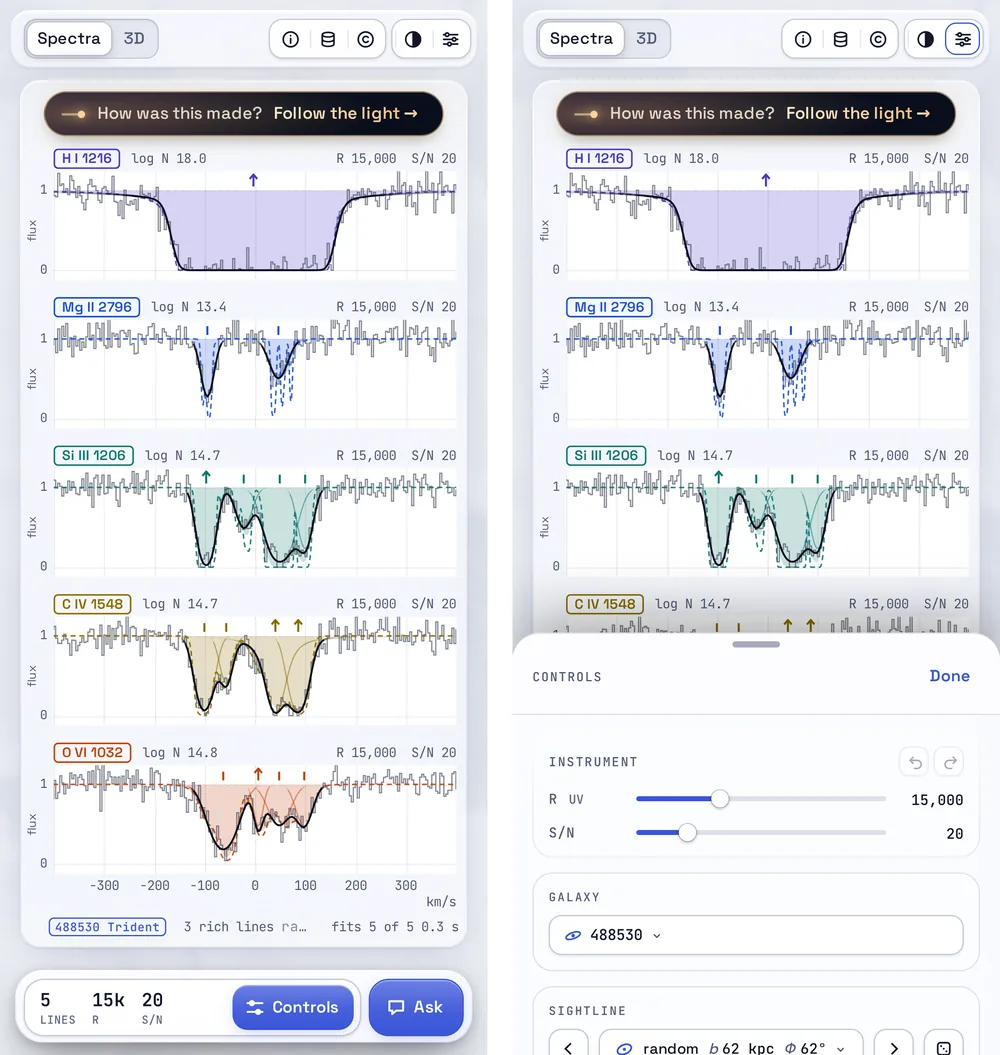
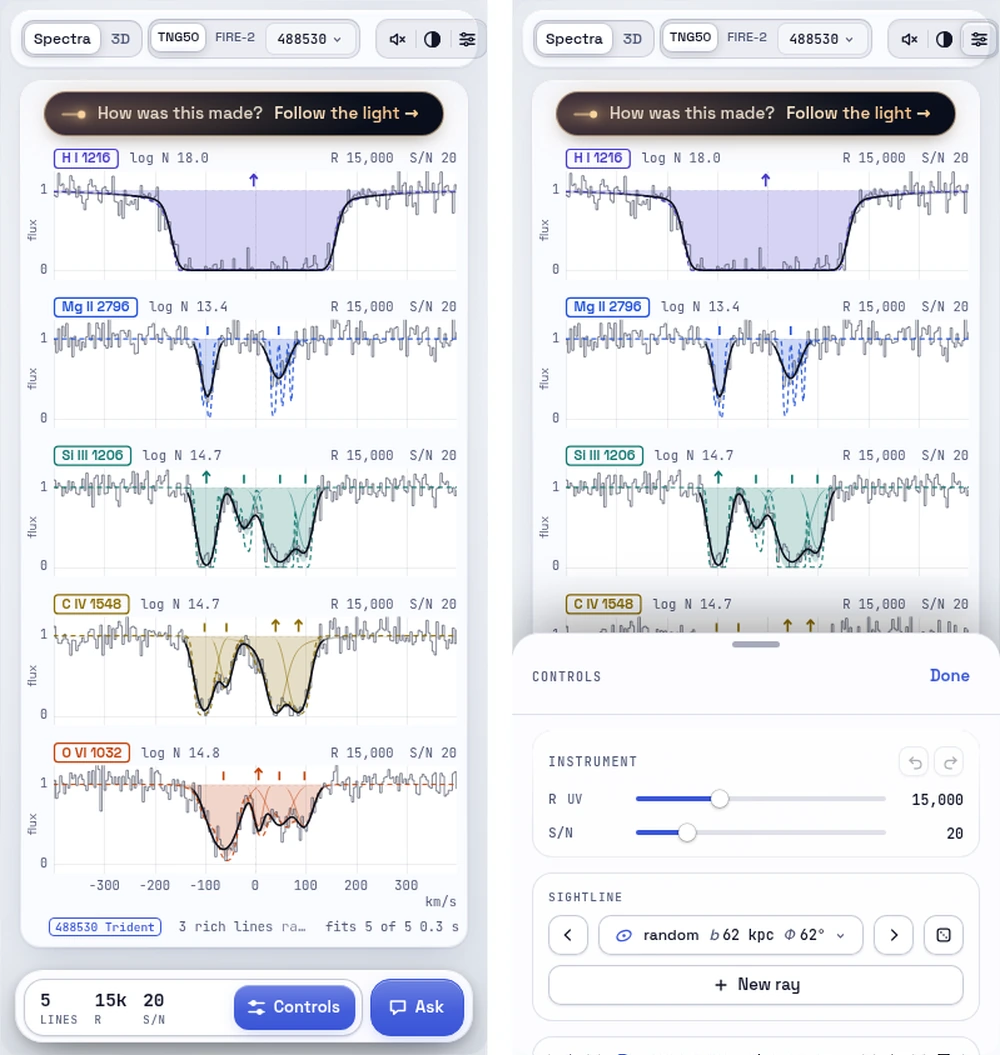
feat(site): update README hero, spectra, and mobile screenshots for TNG50 + FIRE-2 UI and 5-level 3D disks
- Refresh docs/readme/spectra.webp (1600x1000) with the new unified [TNG50 | FIRE-2 | 488530] top-bar galaxy capsule and clubbed sightline controls
- Refresh docs/readme/mobile.webp (1000x1055) with the phone top-bar TNG50 | FIRE-2 + galaxy picker capsule, bottom glass dock, and Controls drawer
- Enhance docs/readme/hero.webp (1400x1400) central galaxy disk with 5-level S0..S4 spiral arm and dust lane detail, and update README captions

diff --git a/README.md b/README.md
@@ -31,8 +31,8 @@ how hot it is and how it moves. This site lets you do that across **221 simulate
 
 ### Read the light
 
-<p align="center"><a href="https://galaxies.tanmaysingh.uk/"><img src="docs/readme/spectra.webp" width="100%" alt="The explorer comparing five absorption lines at two resolving powers, with fitted components"></a></p>
-<p align="center"><sub>Twelve ions along any sightline, through the telescope you choose.</sub></p>
+<p align="center"><a href="https://galaxies.tanmaysingh.uk/"><img src="docs/readme/spectra.webp" width="100%" alt="The explorer comparing five absorption lines at two resolving powers across TNG50 and FIRE-2 galaxies, with fitted Voigt components"></a></p>
+<p align="center"><sub>Twelve ions along any sightline across 198 TNG50-1 and 23 FIRE-2 galaxies, through the telescope you choose.</sub></p>
 
 ### Fly through the gas
 
@@ -51,8 +51,8 @@ how hot it is and how it moves. This site lets you do that across **221 simulate
 
 ### Take it anywhere
 
-<p align="center"><img src="docs/readme/mobile.webp" width="520" alt="The explorer on a phone: the spectra with the glass dock, and the control sheet pulled up"></p>
-<p align="center"><sub>Works on a phone, nothing to install.</sub></p>
+<p align="center"><img src="docs/readme/mobile.webp" width="520" alt="The explorer on a phone: top-bar TNG50 and FIRE-2 galaxy switcher, spectra with the glass dock, and the control sheet pulled up"></p>
+<p align="center"><sub>Works on a phone with full TNG50 and FIRE-2 galaxy switching, nothing to install.</sub></p>
 
 ## Three ways in
 
